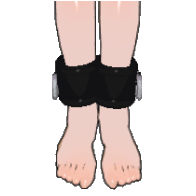
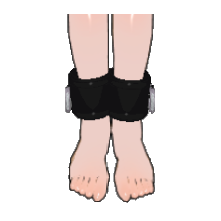
Refactor: Leather cuffs (ItemFeet) (#1412)
* Leather cuffs refactor

* Update Female3DCG.js

Changed region(s): [[0.2449, 0.0, 0.7347, 0.9796]]

diff --git a/BondageClub/Screens/Inventory/ItemFeet/LeatherAnkleCuffs/LeatherAnkleCuffs.js b/BondageClub/Screens/Inventory/ItemFeet/LeatherAnkleCuffs/LeatherAnkleCuffs.js
@@ -1,76 +1,42 @@
 "use strict";
+var InventoryItemFeetLeatherAnkleCuffsOptions = [
+	{
+		Name: "None",
+		Property: {
+			Type: null, SetPose: null, Difficulty: null, Effect: null
+		}
+	},
+	{
+		Name: "Closed",
+		Property: {
+			Type: "Closed", Effect: ["Prone", "Freeze"], SetPose: ["LegsClosed"], Difficulty: 6
+		}
+	}
+];
 
 // Loads the item extension properties
 function InventoryItemFeetLeatherAnkleCuffsLoad() {
-	if (DialogFocusItem.Property == null) DialogFocusItem.Property = { Restrain: null };
+	ExtendedItemLoad(InventoryItemFeetLeatherAnkleCuffsOptions, "SelectBondagePosition");
 }
 
 // Draw the item extension screen
 function InventoryItemFeetLeatherAnkleCuffsDraw() {
-	
-	// Draw the header and item
-	DrawButton(1885, 25, 90, 90, "", "White", "Icons/Exit.png");
-	DrawRect(1387, 125, 225, 275, "white");
-	DrawImageResize("Assets/" + DialogFocusItem.Asset.Group.Family + "/" + DialogFocusItem.Asset.Group.Name + "/Preview/" + DialogFocusItem.Asset.Name + ".png", 1389, 127, 221, 221);
-	DrawTextFit(DialogFocusItem.Asset.Description, 1500, 375, 221, "black");
-
-	// Draw the possible poses
-	DrawText(DialogFind(Player, "SelectBondagePosition"), 1500, 500, "white", "gray");
-	DrawButton(1250, 550, 225, 225, "", (DialogFocusItem.Property.Restrain == null) ? "#888888" : "White");
-	DrawImage("Screens/Inventory/" + DialogFocusItem.Asset.Group.Name + "/" + DialogFocusItem.Asset.Name + "/None.png", 1265, 550);
-	DrawText(DialogFind(Player, "LeatherAnkleCuffsPoseNone"), 1365, 800, "white", "gray");
-	DrawButton(1500, 550, 225, 225, "", ((DialogFocusItem.Property.Restrain != null) && (DialogFocusItem.Property.Restrain == "Closed")) ? "#888888" : "Closed");
-	DrawImage("Screens/Inventory/" + DialogFocusItem.Asset.Group.Name + "/" + DialogFocusItem.Asset.Name + "/Closed.png", 1515, 550);
-	DrawText(DialogFind(Player, "LeatherAnkleCuffsPoseClosed"), 1610, 800, "white", "gray");
+	ExtendedItemDraw(InventoryItemFeetLeatherAnkleCuffsOptions, "LeatherAnkleCuffsPose");
 }
 
 // Catches the item extension clicks
 function InventoryItemFeetLeatherAnkleCuffsClick() {
-	if ((MouseX >= 1885) && (MouseX <= 1975) && (MouseY >= 25) && (MouseY <= 110)) DialogFocusItem = null;
-	if ((MouseX >= 1250) && (MouseX <= 1475) && (MouseY >= 550) && (MouseY <= 775) && (DialogFocusItem.Property.Restrain != null)) InventoryItemFeetLeatherAnkleCuffsSetPose(null);
-	if ((MouseX >= 1500) && (MouseX <= 1725) && (MouseY >= 550) && (MouseY <= 775) && ((DialogFocusItem.Property.Restrain == null) || (DialogFocusItem.Property.Restrain != "Closed"))) InventoryItemFeetLeatherAnkleCuffsSetPose("Closed");
+	ExtendedItemClick(InventoryItemFeetLeatherAnkleCuffsOptions);
 }
 
-// Sets the cuffs pose (wrist, elbow, both or none)
-function InventoryItemFeetLeatherAnkleCuffsSetPose(NewPose) {
-
-	// Gets the current item and character
-	var C = (Player.FocusGroup != null) ? Player : CurrentCharacter;
-	if (CurrentScreen == "ChatRoom") {
-		DialogFocusItem = InventoryGet(C, C.FocusGroup.Name);
-		InventoryItemFeetLeatherAnkleCuffsLoad();
-	}
-
-	// Sets the new pose with it's effects
-	DialogFocusItem.Property.Restrain = NewPose;
-	if (NewPose == null) {
-		delete DialogFocusItem.Property.SetPose;
-		delete DialogFocusItem.Property.Effect;
-		delete DialogFocusItem.Property.Difficulty;
-	} else if (NewPose == "Closed") {
-		DialogFocusItem.Property.SetPose = ["LegsClosed"];
-		DialogFocusItem.Property.Effect = ["Prone", "Freeze"];
-		DialogFocusItem.Property.Difficulty = 6;
-	}
-
-	// Adds the lock effect back if it was padlocked
-	if ((DialogFocusItem.Property.LockedBy != null) && (DialogFocusItem.Property.LockedBy != "")) {
-		if (DialogFocusItem.Property.Effect == null) DialogFocusItem.Property.Effect = [];
-		DialogFocusItem.Property.Effect.push("Lock");
-	}
-
-	// Refreshes the character and chatroom
-	CharacterRefresh(C);
-	var msg = "LeatherAnkleCuffsRestrain" + ((NewPose == null) ? "None" : NewPose);
+function InventoryItemFeetLeatherAnkleCuffsPublishAction(C, Option) {
+	var msg = "LeatherAnkleCuffsRestrain" + Option.Name;
 	var Dictionary = [];
-	Dictionary.push({Tag: "SourceCharacter", Text: Player.Name, MemberNumber: Player.MemberNumber});
-    Dictionary.push({Tag: "DestinationCharacter", Text: C.Name, MemberNumber: C.MemberNumber});
+	Dictionary.push({ Tag: "SourceCharacter", Text: Player.Name, MemberNumber: Player.MemberNumber });
+	Dictionary.push({ Tag: "DestinationCharacter", Text: C.Name, MemberNumber: C.MemberNumber });
 	ChatRoomPublishCustomAction(msg, true, Dictionary);
+}
 
-	// Rebuilds the inventory menu
-	if (DialogInventory != null) {
-		DialogFocusItem = null;
-		DialogMenuButtonBuild(C);
-	}
-
+function InventoryItemFeetLeatherAnkleCuffsNpcDialog(C, Option) {
+	C.CurrentDialog = DialogFind(C, "LeatherAnkleCuffs" + Option.Name, "ItemFeet");
 }

diff --git a/BondageClub/Assets/Female3DCG/Female3DCG.js b/BondageClub/Assets/Female3DCG/Female3DCG.js
@@ -1036,7 +1036,7 @@ var AssetFemale3DCG = [
 			{ Name: "SturdyLeatherBelts", Fetish: ["Leather"], Value: 50, Time: 10, RemoveTime: 5, AllowLock: true, BuyGroup: "SturdyLeatherBelts", SetPose: ["LegsClosed"], AllowType: ["Two", "Three"], Extended: true, AllowActivePose: ["Kneel"] },
 			{ Name: "Irish8Cuffs", Fetish: ["Metal"], Value: 25, Time: 10, RemoveTime: 5, AllowLock: true, Audio: "CuffsMetal", SetPose: ["LegsClosed"], AllowActivePose: ["Kneel"] },
 			{ Name: "DuctTape", Fetish: ["Tape"], Value: 50, Time: 15, RemoveTime: 10, BuyGroup: "DuctTape", Audio: "DuctTape", HideItem: ["ItemBootsThighHighLatexHeels"], SetPose: ["LegsClosed"], AllowType: ["HalfFeet", "MostFeet", "CompleteFeet"], Extended: true, AllowActivePose: ["Kneel"] },
-			{ Name: "LeatherAnkleCuffs", Fetish: ["Leather"], Priority: 24, Value: 30, Difficulty: 2, Time: 10, Random: false, AllowLock: true, AllowPose: ["LegsClosed", "Spread"], Effect: ["CuffedFeet"], AllowEffect: ["Freeze", "Prone"], Extended: true, AllowActivePose: ["Kneel"] },
+			{ Name: "LeatherAnkleCuffs", Fetish: ["Leather"], Priority: 24, Value: 30, Difficulty: 2, Time: 10, Random: false, AllowLock: true, AllowPose: ["LegsClosed", "Spread"], Effect: ["CuffedFeet"], AllowEffect: ["Freeze", "Prone"], Extended: true, AllowActivePose: ["Kneel"], AllowType: ["Closed"], HasType: false },
 			{
 				Name: "OrnateAnkleCuffs", Fetish: ["Metal"], Priority: 24, Value: 90, Difficulty: 3, Time: 10, Random: false, AllowLock: true, Audio: "CuffsMetal", AllowPose: ["LegsClosed", "Spread"], Effect: ["CuffedFeet"], AllowEffect: ["Freeze", "Prone"], Extended: true, AllowActivePose: ["Kneel"],
 				Layer: [
